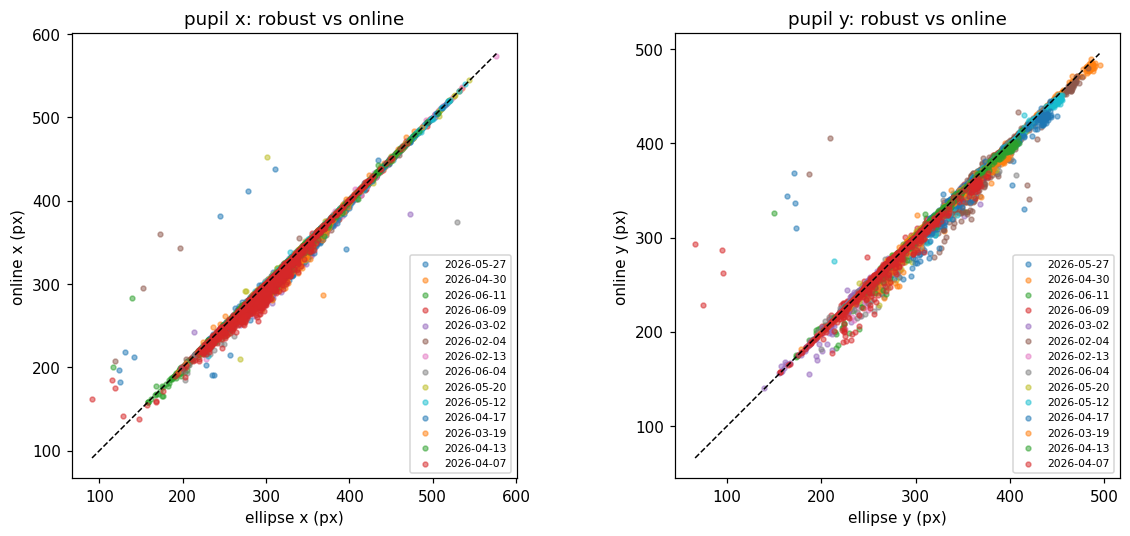
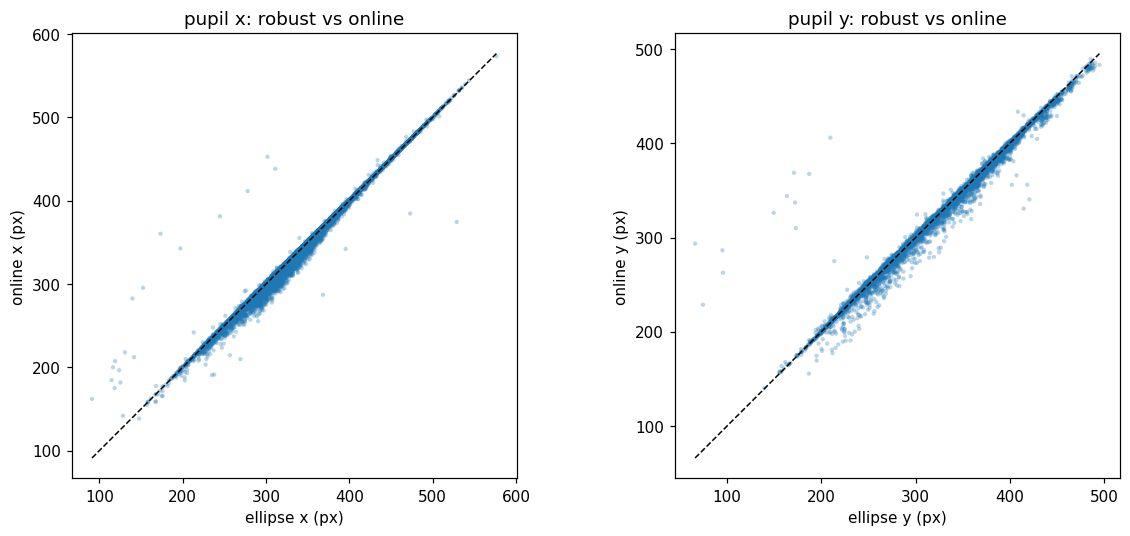
Figure polish: drop per-session vlines, unify histtype/colors, add eye-frame coordinate figure
- histograms: remove per-session mean vlines; step histtype used for all
  histograms (compare_conditions and compare_agreement deltas)
- consistent color constants: conditions black/red, trackers cyan(robust)/orange(online)
  applied across tracking examples, clouds, agreement, discrepancy, histograms
- tracker_agreement scatter: single color instead of per-date rainbow
- new show_eyeframes() -> figures/eyeframe_coordinates.png (4 sessions, landmarks + u/v axes)
- REPORT.md: embed coordinate figure, fix histogram caption

diff --git a/eyevideo.py b/eyevideo.py
@@ -17,6 +17,11 @@ ANIMAL_DIR = "/mnt/at-storageB1_I/EyeVideo/AT-B1NO1"
 CHUNK_SECONDS = 5.0
 LANDMARK_FILE = "eye_landmarks.json"
 
+# consistent colors across all figures
+COND_PALETTE = ["black", "red", "tab:blue", "tab:purple", "tab:orange"]  # conditions (centered, biased, ...)
+C_ROBUST = "cyan"      # robust ellipse tracker
+C_ONLINE = "orange"    # online centroid tracker
+
 _SIZE_CACHE = {}
 _TRK = {}
 
@@ -326,6 +331,22 @@ def show_landmarks(date, n=120):
     ax.arrow(*F["c"], *(F["vd"]*F["hv"]), color="lime", width=2)
     ax.set_title(f"{date} eye frame (red=u, green=v)"); ax.set_xticks([]); ax.set_yticks([]); plt.show()
 
+def show_eyeframes(dates, n=200, cols=2):
+    """Grid of mean eye images with clicked landmarks + eye-frame axes (red=u, green=v)."""
+    if isinstance(dates, str): dates = [dates]
+    rows = int(np.ceil(len(dates) / cols))
+    fig, axes = plt.subplots(rows, cols, figsize=(cols*5, rows*3.8), squeeze=False)
+    for ax, d in zip(axes.ravel(), dates):
+        r = track_both(session_for_date(d), n); F = eye_frame(LANDMARKS[d])
+        ax.imshow(r["mean"], cmap="gray", vmin=0, vmax=255)
+        P = np.array(LANDMARKS[d]); ax.plot(np.append(P[:,0],P[0,0]), np.append(P[:,1],P[0,1]), "y-o", ms=3, lw=1)
+        ax.arrow(*F["c"], *(F["ud"]*F["hu"]), color="red", width=2, length_includes_head=True)
+        ax.arrow(*F["c"], *(F["vd"]*F["hv"]), color="lime", width=2, length_includes_head=True)
+        ax.set_title(d, fontsize=9); ax.set_xticks([]); ax.set_yticks([])
+    for ax in axes.ravel()[len(dates):]:
+        ax.axis("off")
+    plt.tight_layout(); plt.show()
+
 # ---------------------------------------------------------------- QC & analysis plots
 def plot_pupil_xy(date, n=1000, high=50.0):
     """Pupil x and y over the session for n equally-spaced frames, both trackers."""
@@ -357,12 +378,11 @@ def tracker_agreement(dates, n=120, high=50.0):
         vals = []
         for d, r in data:
             e = r["ell"][:, j]; o = r["onl"][:, j]
-            ax[j].scatter(e, o, s=10, alpha=0.5, label=d); vals += list(e) + list(o)
+            ax[j].scatter(e, o, s=8, alpha=0.3, color="tab:blue", edgecolors="none"); vals += list(e) + list(o)
         if vals:
             lo, hi = min(vals), max(vals); ax[j].plot([lo, hi], [lo, hi], "k--", lw=1)
         ax[j].set_xlabel(f"ellipse {lab} (px)"); ax[j].set_ylabel(f"online {lab} (px)")
         ax[j].set_title(f"pupil {lab}: robust vs online"); ax[j].set_aspect("equal", "box")
-        ax[j].legend(fontsize=7)
     plt.tight_layout(); plt.show()
     for d, r in data:
         rx = np.corrcoef(r["ell"][:, 0], r["onl"][:, 0])[0, 1]
@@ -389,10 +409,10 @@ def show_tracking_examples(dates, k=5, high=50.0, search=40):
             if c >= len(found): ax.axis("off"); continue
             t, g, e = found[c]; (cx, cy), (MA, ma), ang = e
             ax.imshow(g, cmap="gray", vmin=0, vmax=255)
-            ax.add_patch(Ellipse((cx, cy), MA, ma, angle=ang, fill=False, ec="cyan", lw=1.6))
-            ax.plot(cx, cy, "+", c="cyan", ms=9, mew=1.6)
+            ax.add_patch(Ellipse((cx, cy), MA, ma, angle=ang, fill=False, ec=C_ROBUST, lw=1.6))
+            ax.plot(cx, cy, "+", c=C_ROBUST, ms=9, mew=1.6)
             ox, oy = get_pupil_online(g, 0.0, high)
-            if ox is not None: ax.plot(ox, oy, "x", c="orange", ms=9, mew=1.8)
+            if ox is not None: ax.plot(ox, oy, "x", c=C_ONLINE, ms=9, mew=1.8)
             if c == 0: ax.set_ylabel(d, fontsize=9)
             ax.set_title(f"{t/60:.0f}m", fontsize=7)
     plt.tight_layout(); plt.show()
@@ -407,13 +427,13 @@ def pupil_cloud_eyeframe(date, n=120, high=50.0):
     fig, ax = plt.subplots(1, 2, figsize=(13, 5.2))
     ax[0].imshow(r["mean"], cmap="gray", vmin=0, vmax=255)
     P = np.array(LANDMARKS[date]); ax[0].plot(np.append(P[:,0],P[0,0]), np.append(P[:,1],P[0,1]), "y-", lw=1)
-    ax[0].scatter(r["ell"][:,0], r["ell"][:,1], s=8, c="cyan", alpha=0.5, label="robust")
-    ax[0].scatter(r["onl"][:,0], r["onl"][:,1], s=8, c="orange", alpha=0.5, label="online")
+    ax[0].scatter(r["ell"][:,0], r["ell"][:,1], s=8, c=C_ROBUST, alpha=0.5, label="robust")
+    ax[0].scatter(r["onl"][:,0], r["onl"][:,1], s=8, c=C_ONLINE, alpha=0.5, label="online")
     ax[0].arrow(*F["c"], *(F["ud"]*F["hu"]), color="red", width=2)
     ax[0].arrow(*F["c"], *(F["vd"]*F["hv"]), color="lime", width=2)
     ax[0].set_title(f"{date}  (image space)"); ax[0].set_xticks([]); ax[0].set_yticks([]); ax[0].legend(fontsize=8)
-    ax[1].scatter(ue[:,0], ue[:,1], s=12, c="cyan", alpha=0.6, label="robust")
-    ax[1].scatter(uo[:,0], uo[:,1], s=12, c="orange", alpha=0.6, label="online")
+    ax[1].scatter(ue[:,0], ue[:,1], s=12, c=C_ROBUST, alpha=0.6, label="robust")
+    ax[1].scatter(uo[:,0], uo[:,1], s=12, c=C_ONLINE, alpha=0.6, label="online")
     ax[1].plot(np.median(ue[:,0]), np.median(ue[:,1]), "*", c="blue", ms=16, mec="w")
     ax[1].axvline(0, color="k", ls=":"); ax[1].axhline(0, color="k", ls=":")
     ax[1].set_xlim(-1.2, 1.2); ax[1].set_ylim(1.2, -1.2); ax[1].set_aspect("equal")
@@ -529,8 +549,7 @@ def compare_agreement(centered=None, biased=None, conditions=None, n=120, high=5
     if conditions is None:
         conditions = {"centered": centered or [], "biased": biased or []}
     names = list(conditions)
-    palette = ["tab:green", "tab:red", "tab:blue", "tab:purple", "tab:orange"]
-    colors = {nm: palette[i % len(palette)] for i, nm in enumerate(names)}
+    colors = {nm: COND_PALETTE[i % len(COND_PALETTE)] for i, nm in enumerate(names)}
     pf = {nm: {"ex": [], "ox": [], "ey": [], "oy": []} for nm in names}   # per-frame
     dday = {nm: {"dx": [], "dy": []} for nm in names}                     # per-session median delta
     for nm in names:
@@ -559,7 +578,7 @@ def compare_agreement(centered=None, biased=None, conditions=None, n=120, high=5
         rng = (np.percentile(alld, 1), np.percentile(alld, 99)) if alld else (-1, 1)
         for nm in names:
             dd = np.array(pf[nm][key[0]]) - np.array(pf[nm][key[1]])
-            axis.hist(dd, bins=bins, range=rng, alpha=0.5, color=colors[nm], density=True, label=nm)
+            axis.hist(dd, bins=bins, range=rng, histtype="step", lw=1.6, color=colors[nm], density=True, label=nm)
         axis.axvline(0, color="k", ls=":"); axis.set_xlabel(f"delta {lab} = online - ellipse (px)")
         axis.set_ylabel("density"); axis.set_title(f"tracker discrepancy in {lab}"); axis.legend(fontsize=8)
     plt.tight_layout(); plt.show()
@@ -589,8 +608,7 @@ def compare_conditions(centered=None, biased=None, conditions=None,
     if conditions is None:
         conditions = {"centered": centered or [], "biased": biased or []}
     names = list(conditions)
-    palette = ["black", "red", "tab:blue", "tab:purple", "tab:orange"]
-    colors = {nm: palette[i % len(palette)] for i, nm in enumerate(names)}
+    colors = {nm: COND_PALETTE[i % len(COND_PALETTE)] for i, nm in enumerate(names)}
     trackers = [("ell", "robust ellipse"), ("onl", "online centroid")]
     AX = [("u", 0, "horizontal (eye-frame x)"), ("v", 1, "vertical (eye-frame y)")]
     # per-frame coords and per-session summaries, per condition/tracker/axis
@@ -617,8 +635,6 @@ def compare_conditions(centered=None, biased=None, conditions=None,
             for nm in names:
                 ax[i][j].hist(pooled[nm][tr][ax_key], bins=bins, range=(-1, 1), histtype="step",
                               lw=1.6, color=colors[nm], label=nm, density=True)
-                for sv in daysum[nm][tr][ax_key]:               # per-session mean
-                    ax[i][j].axvline(sv, color=colors[nm], lw=0.7, alpha=0.55)
             ax[i][j].set_title(f"{tlab}: {alab}"); ax[i][j].legend(fontsize=8)
             ax[i][j].set_xlabel("pupil position in eye frame (-1 .. +1, 0 = centered)")
             ax[i][j].set_ylabel("density")

diff --git a/make_report.py b/make_report.py
@@ -29,9 +29,15 @@ log("compare_conditions done")
 daysum = res["daysum"]; perday = res["perday"]
 
 # 3b) example frames with ellipse + cross (2 centered + 2 biased sessions)
-ev.show_tracking_examples([centered[0], centered[3], biased[0], biased[3]], k=5)
+EX = [centered[0], centered[3], biased[0], biased[3]]
+ev.show_tracking_examples(EX, k=5)
 plt.savefig(f"{FIG}/tracking_examples.png", dpi=110, bbox_inches="tight"); plt.close("all")
 log("tracking_examples figure done")
+
+# 3c) eye-frame coordinate system on 4 example sessions
+ev.show_eyeframes(EX, n=N, cols=2)
+plt.savefig(f"{FIG}/eyeframe_coordinates.png", dpi=110, bbox_inches="tight"); plt.close("all")
+log("eyeframe_coordinates figure done")
 
 # 4) tracker discrepancy by condition + figure
 ev.compare_agreement(centered, biased, n=N, high=HIGH)